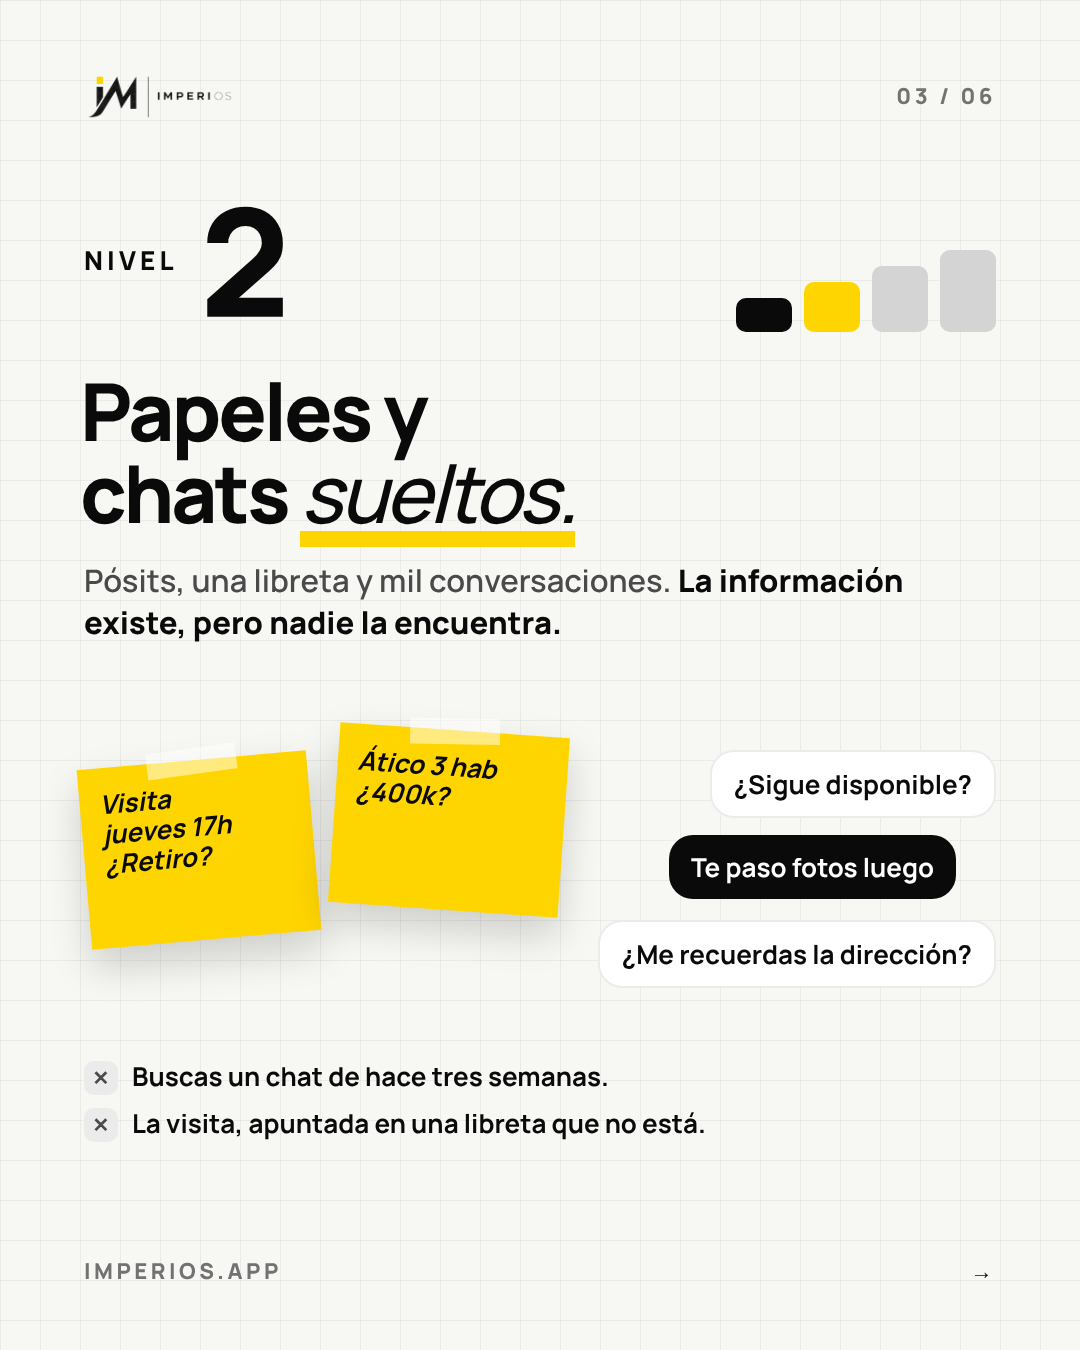
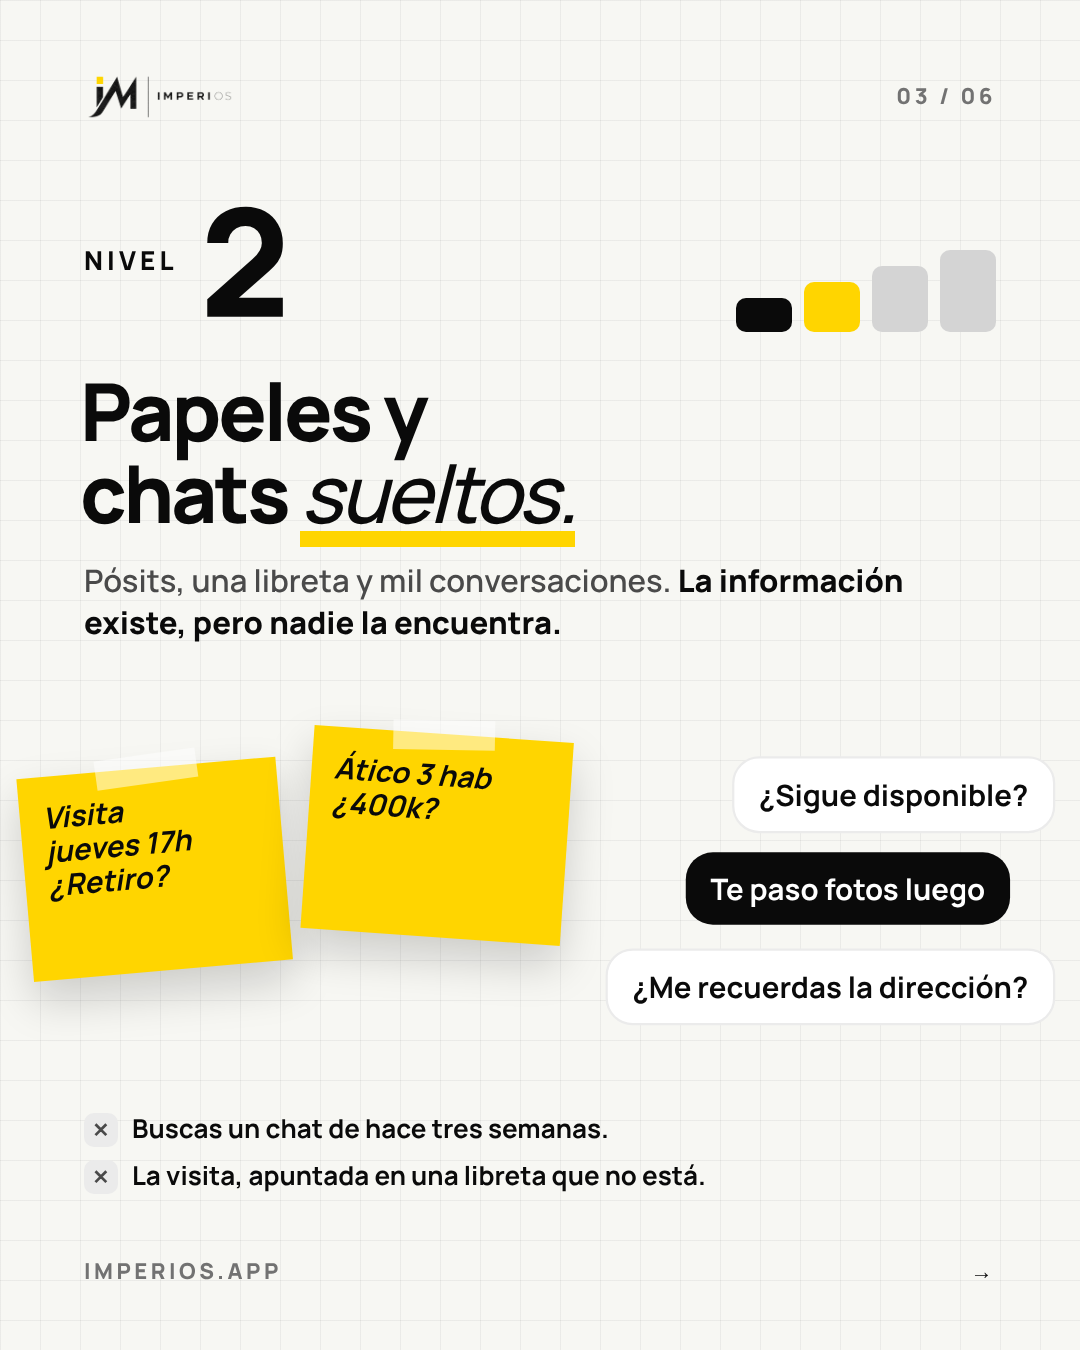
Carrusel niveles: iconos en la escalera de portada, ilustraciones más grandes y cabeza del nivel 1 más expresiva
Claude-Session: https://claude.ai/code/session_01GUwAx98LwDLChJJ4cX9B1a

diff --git a/ADV/ImperiOS Ad/preview/src/carrusel-niveles.html b/ADV/ImperiOS Ad/preview/src/carrusel-niveles.html
@@ -88,14 +88,19 @@ body.dark .nv b { color: var(--y); }
   <div class="abs steps lv" data-l="1" style="right:84px;top:250px"></div>
   <h2 class="abs" style="left:80px;right:60px;top:370px">Todo en<br>la <em class="ul">cabeza.</em></h2>
   <p class="abs body" style="left:84px;right:110px;top:560px">Los clientes, las visitas y los números están en tu memoria… <b>y en la de cada comercial.</b></p>
-  <div class="abs" style="left:84px;right:84px;top:740px;height:290px">
-    <svg class="abs" style="left:310px;top:20px" width="220" height="250" viewBox="0 0 220 250"><path d="M110 20c-50 0-85 35-85 82 0 30 14 50 30 64v54h80v-30h25c10 0 15-6 15-15v-25l20-8-20-35c0-55-25-87-65-87z" fill="none" stroke="#0A0A0A" stroke-width="7" stroke-linejoin="round"/></svg>
+  <div class="abs" style="left:84px;right:84px;top:745px;height:290px;transform:scale(1.13);transform-origin:50% 0">
+    <svg class="abs" style="left:300px;top:10px" width="240" height="272" viewBox="0 0 220 250">
+      <path d="M110 20c-50 0-85 35-85 82 0 30 14 50 30 64v54h80v-30h25c10 0 15-6 15-15v-25l20-8-20-35c0-55-25-87-65-87z" fill="#0A0A0A"/>
+      <path d="M62 92c10-30 52-36 64-10s-30 34-38 18 30-36 50-14-6 44-30 40-34-20-16-30 44 0 40 24" stroke="#FFD500" stroke-width="6" fill="none" stroke-linecap="round" stroke-linejoin="round"/>
+      <text x="138" y="72" font-family="Manrope" font-weight="800" font-size="34" fill="#FFD500">?</text>
+      <text x="44" y="150" font-family="Manrope" font-weight="800" font-size="28" fill="#FFD500">?</text>
+      <circle cx="44" cy="30" r="7" fill="#0A0A0A"/><circle cx="26" cy="14" r="5" fill="#0A0A0A"/><circle cx="182" cy="34" r="7" fill="#0A0A0A"/><circle cx="200" cy="18" r="5" fill="#0A0A0A"/></svg>
     <div class="bub" style="left:0;top:0;background:#fff;border:2px solid var(--ink-950);transform:rotate(-4deg)">Ana… ¿ático?</div>
     <div class="bub" style="right:0;top:30px;background:#fff;border:2px solid var(--ink-950);transform:rotate(3deg)">¿Visita jueves o viernes?</div>
     <div class="bub" style="left:20px;top:150px;background:var(--ink-950);color:#fff;transform:rotate(2deg)">Llamar a Luis</div>
     <div class="bub" style="right:20px;top:190px;background:var(--ink-950);color:#fff;transform:rotate(-3deg)">¿Cuánto facturamos?</div>
   </div>
-  <div class="abs sig" style="top:1060px"><div class="no"><i>✕</i>Si un comercial se va, se lleva sus clientes.</div><div class="no"><i>✕</i>Nadie sabe cuántas consultas entran.</div></div>
+  <div class="abs sig" style="top:1112px"><div class="no"><i>✕</i>Si un comercial se va, se lleva sus clientes.</div><div class="no"><i>✕</i>Nadie sabe cuántas consultas entran.</div></div>
   <div class="abs foot"><span>IMPERIOS.APP</span><b>→</b></div>
 </section>
 
@@ -106,14 +111,14 @@ body.dark .nv b { color: var(--y); }
   <div class="abs steps lv" data-l="2" style="right:84px;top:250px"></div>
   <h2 class="abs" style="left:80px;right:60px;top:370px">Papeles y<br>chats <em class="ul">sueltos.</em></h2>
   <p class="abs body" style="left:84px;right:110px;top:560px">Pósits, una libreta y mil conversaciones. <b>La información existe, pero nadie la encuentra.</b></p>
-  <div class="abs" style="left:84px;right:84px;top:740px;height:290px">
+  <div class="abs" style="left:84px;right:84px;top:745px;height:290px;transform:scale(1.13);transform-origin:50% 0">
     <div class="pst" style="left:0;top:20px;transform:rotate(-5deg)">Visita<br>jueves 17h<br>¿Retiro?</div>
     <div class="pst" style="left:250px;top:-10px;transform:rotate(4deg)">Ático 3 hab<br>¿400k?</div>
     <div class="bub" style="right:0;top:10px;background:#fff;border:2px solid var(--ink-200)">¿Sigue disponible?</div>
     <div class="bub" style="right:40px;top:95px;background:var(--ink-950);color:#fff">Te paso fotos luego</div>
     <div class="bub" style="right:0;top:180px;background:#fff;border:2px solid var(--ink-200)">¿Me recuerdas la dirección?</div>
   </div>
-  <div class="abs sig" style="top:1060px"><div class="no"><i>✕</i>Buscas un chat de hace tres semanas.</div><div class="no"><i>✕</i>La visita, apuntada en una libreta que no está.</div></div>
+  <div class="abs sig" style="top:1112px"><div class="no"><i>✕</i>Buscas un chat de hace tres semanas.</div><div class="no"><i>✕</i>La visita, apuntada en una libreta que no está.</div></div>
   <div class="abs foot"><span>IMPERIOS.APP</span><b>→</b></div>
 </section>
 
@@ -124,14 +129,14 @@ body.dark .nv b { color: var(--y); }
   <div class="abs steps lv" data-l="3" style="right:84px;top:250px"></div>
   <h2 class="abs" style="left:80px;right:60px;top:370px">Excel y mil<br><em class="ul">herramientas.</em></h2>
   <p class="abs body" style="left:84px;right:110px;top:560px">Una hoja de clientes, otra app para la agenda, otra para facturar… <b>cada cosa en un sitio.</b></p>
-  <div class="abs" style="left:84px;right:84px;top:740px;height:290px">
+  <div class="abs" style="left:84px;right:84px;top:745px;height:290px;transform:scale(1.13);transform-origin:50% 0">
     <div class="win" style="left:0;top:10px;width:330px;height:200px;transform:rotate(-3deg)"><div class="t"><i></i>clientes_v3 (2).xlsx</div>
       <table class="xl"><tr><td class="h">NOMBRE</td><td class="h">TELÉFONO</td><td class="h">ESTADO</td></tr><tr><td>Ana ??</td><td>617 2…</td><td class="e">#REF!</td></tr><tr><td>Luis</td><td>—</td><td>llamar</td></tr><tr><td>Marta (Retiro)</td><td>ver chat</td><td class="e">#N/A</td></tr></table></div>
     <div class="win" style="left:350px;top:-10px;width:240px;height:180px;transform:rotate(2deg)"><div class="t"><i></i>Agenda</div><div style="padding:14px;font-weight:700;font-size:20px;color:var(--ink-700)">Jue 17:00 · ¿quién?</div></div>
     <div class="win" style="right:0;top:30px;width:280px;height:170px;transform:rotate(-2deg)"><div class="t"><i></i>Facturas</div><div style="padding:14px;font-weight:700;font-size:20px;color:var(--ink-700)">Nº 2031 · pendiente</div></div>
     <div class="abs" style="left:250px;top:215px;font-weight:800;font-size:22px;letter-spacing:.1em;color:var(--ink-600)">COPIAR · PEGAR · COPIAR · PEGAR…</div>
   </div>
-  <div class="abs sig" style="top:1060px"><div class="no"><i>✕</i>Pasas datos a mano de una herramienta a otra.</div><div class="no"><i>✕</i>Nadie tiene la foto completa del negocio.</div></div>
+  <div class="abs sig" style="top:1112px"><div class="no"><i>✕</i>Pasas datos a mano de una herramienta a otra.</div><div class="no"><i>✕</i>Nadie tiene la foto completa del negocio.</div></div>
   <div class="abs foot"><span>IMPERIOS.APP</span><b>→</b></div>
 </section>
 
@@ -173,10 +178,17 @@ body.dark .nv b { color: var(--y); }
 document.querySelectorAll('.steps.lv').forEach(s => { const l = +s.dataset.l; s.innerHTML = [1, 2, 3, 4].map(i => `<i class="${i === l ? 'on' : i < l ? 'done' : ''}" style="height:${18 + i * 16}px"></i>`).join(''); });
 // portada: escalera grande con los nombres de los niveles
 const NAMES = ['Todo en la cabeza', 'Papeles y chats', 'Excel y mil apps', 'Todo conectado'];
+const IW = c => `<svg style="position:absolute;right:16px;bottom:16px" width="60" height="60" viewBox="0 0 60 60" fill="none" stroke="${c}" stroke-width="4.5" stroke-linecap="round" stroke-linejoin="round">`;
+const ICON = [
+  c => IW(c) + '<path d="M30 6c-13 0-22 9-22 21 0 8 4 13 8 17v12h20v-8h7c3 0 4-2 4-4v-7l5-2-5-9C47 14 41 6 30 6z"/></svg>',
+  c => IW(c) + '<path d="M10 8h40v30L38 52H10z"/><path d="M38 52V38h12"/><path d="M18 20h22M18 29h16"/></svg>',
+  c => IW(c) + '<rect x="6" y="10" width="48" height="40" rx="5"/><path d="M6 22h48M6 36h48M22 10v40M38 10v40"/></svg>',
+  c => IW(c) + '<rect x="6" y="10" width="48" height="40" rx="5"/><path d="M13 40l11-10 9 6 14-15"/><circle cx="47" cy="21" r="2.5" fill="' + c + '"/></svg>',
+];
 document.getElementById('coverSteps').innerHTML = NAMES.map((n, i) => `<div style="width:204px;display:flex;flex-direction:column;justify-content:flex-end">
   <div style="font-weight:800;font-size:22px;line-height:1.15;margin-bottom:12px;${i === 3 ? '' : 'color:var(--ink-700)'}">${n}</div>
   <div style="height:${110 + i * 75}px;border-radius:20px;background:${i === 3 ? 'var(--ink-950)' : i === 2 ? 'var(--ink-500)' : i === 1 ? 'var(--ink-300)' : 'var(--ink-200)'};color:${i === 3 ? 'var(--y)' : 'var(--ink-950)'};
-    display:flex;align-items:flex-start;padding:16px 20px;font-weight:800;font-size:64px;letter-spacing:-.04em">${i + 1}</div></div>`).join('');
+    display:flex;align-items:flex-start;padding:16px 20px;font-weight:800;font-size:64px;letter-spacing:-.04em;position:relative">${i + 1}${ICON[i](i === 3 ? '#FFD500' : '#0A0A0A')}</div></div>`).join('');
 // cierre: selector 1–4
 document.getElementById('pick').innerHTML = [1, 2, 3, 4].map(i => `<span style="width:200px;height:200px;border-radius:40px;display:grid;place-items:center;font-weight:800;font-size:110px;letter-spacing:-.05em;
   border:4px solid var(--ink-950);${i === 4 ? 'background:var(--ink-950);color:var(--y)' : ''}">${i}</span>`).join('');
